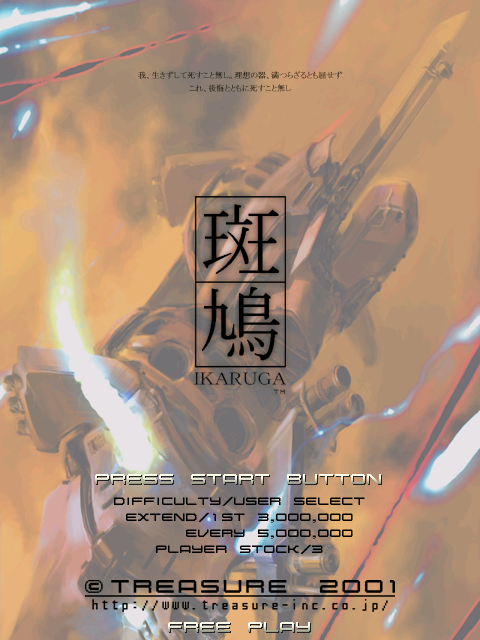
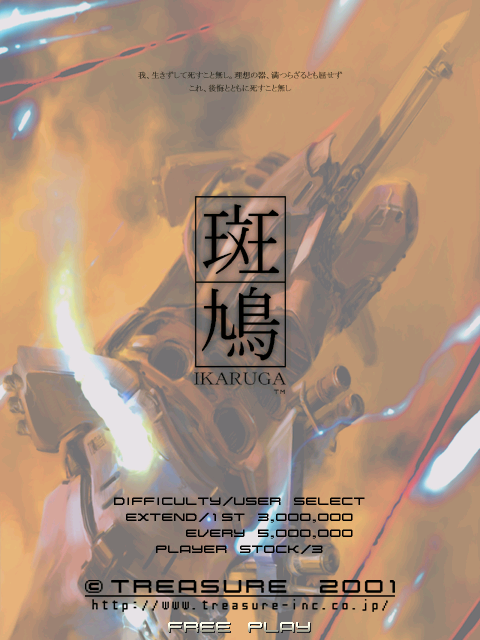
assess: ikaruga vram-fb-masking anchor control (battery v8) — reproduces clean, final unchanged 38.6 C

diff --git a/assessments/ikaruga.md b/assessments/ikaruga.md
@@ -1,5 +1,28 @@
 # Ikaruga (GDL-0010) (`ikaruga`) — portability assessment
 
+> **Battery v8 vram-fb-masking re-run (2026-08-07): 38.6 (C)** — anchor control run for
+> the fork change; reproduces cleanly, no park, final unchanged exactly as the design doc
+> predicted ("main 12.5 still binds") — spec `2026-08-07-vram-fb-masking-design.md`.
+> Sidecar: flycast `f014a410c`, battery 8. Reproduction check vs. the v6 run below: main
+> peak 32,505,920 B, VRAM peak 7,535,232 B, ARAM peak 1,897,200 B — all three bit-identical
+> (`shot-060s.png`/`shot-304s.png`/`shot-365s.png` are byte-identical PNGs to the last
+> committed run too; only `shot-609s.png` differs, the "PRESS START BUTTON" blink-state
+> alternation already documented below). Well inside the ~10% control-test bound (CLAUDE.md
+> rule 2). New VRAM keying (ruling 1): fork emits FB-masked `content_total` 498,525 B +
+> `fb_bytes` 614,400 B (exactly 640×480×2, this anchor's expected FB size); `fit =
+> content_total + 2×fb_bytes` = 1,727,325 B, u = 0.206 (well inside the spec's `≈ ≤ 0.9`
+> anchor bound) → VRAM sub-score 100.0 (u ≤ 0.80), up from v6's address-keyed 92.6.
+> Incidental side effect of running current `score.py` on this anchor for the first time
+> since the v7 ARAM wave (which never touched ikaruga — ARAM isn't its binding region):
+> ARAM also gains `content_total` = 1,517,703 B (u = 0.724) → sub-score 100.0, up from
+> v6's address-keyed 92.2. Neither move matters: main's write-truth sub-score 12.5 (u =
+> 1.938, unchanged since v6) still binds `min()` over the three regions, so **memory axis
+> stays 12.5**, and **final stays 38.6 (C)** — the anchor's whole point here is to prove the
+> fork build measures correctly without disturbing this pinned score, and it does. Coverage
+> re-annotated `title` (unchanged — the fresh run's screenshots reach only the same
+> brightness-calibration countdown → static title screen, FREE PLAY still suppresses
+> attract).
+
 > **Battery v6 re-run (2026-08-07): **38.6 (C)** — main axis measured for the first time; anchor did not park.**
 > flycast `65f9f7857`, battery 6. `capture.handoff.trigger = "pio"`, `pio_bytes = 1,049,920` —
 > byte-identical to Calibration A's cleoftp figure (Task 5): the GD DIMM bootstrap PIO-loads
@@ -71,7 +94,7 @@
 
 Streaming: 396 DMA events · total 8.6 MB · unique 3.4 MB · re-read 0.6103 · steady 0.128 MB/min
 Axes: memory 23.4 · streaming 77.4 · guts 85.0 · controls 100.0 · similarity 70.0 → **final 49.6 (B)**
-Screenshots: `evidence/ikaruga/shot-060s.png` · `evidence/ikaruga/shot-365s.png` · `evidence/ikaruga/shot-609s.png`
+Screenshots: `evidence/ikaruga/shot-060s.png` · `evidence/ikaruga/shot-304s.png` · `evidence/ikaruga/shot-365s.png` · `evidence/ikaruga/shot-609s.png` (curated set re-confirmed under the v8 re-run — calibration countdown + title screen only, coverage `title`, unchanged since v6)
 
 ---
 
@@ -90,7 +113,7 @@ Screenshots: `evidence/ikaruga/shot-060s.png` · `evidence/ikaruga/shot-365s.png
 |---|---|
 | **Final score** | **PARKED — `G3 memory: aram peak > 2x DC capacity`** (not a numeric tier) |
 | Bottom line | The calibration's actual target passed: GD/DIMM reads are fully visible through the logged `CARTDMA` path (396 events, reproduced identically across a 360 s and a 600 s run) — no C++ instrumentation change needed. The game separately gates at **G3** because its ARAM write-truth peak (8 MiB) is exactly 4× the DC's 2 MiB AICA RAM; this is real, deterministic cart data, not a battery defect, and does not affect the GD-path finding. |
-| Assessed | 2026-08-02 · battery v2 · flycast `9e882cbd2` · Ghidra 12.1.2_PUBLIC · MAME `59e7c0b` |
+| Assessed | 2026-08-02 · battery v2 · flycast `9e882cbd2` · Ghidra 12.1.2_PUBLIC · MAME `59e7c0b`; vram-fb-masking re-run 2026-08-07 · battery v8 · flycast `f014a410c` |
 
 ## 2. Identity
 
